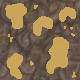
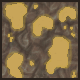
we yeeted the old design and added a new one

diff --git a/Ore.py b/Ore.py
@@ -29,21 +29,21 @@ class Ore():
                 kind = "dirt"
             
         if kind == "coal":
-            self.image = pygame.image.load("images/Ores/coal.png")
+            self.image = pygame.image.load("images/Ores/coalDirt.png")
         elif kind == "iron":
-            self.image = pygame.image.load("images/Ores/IRON.png")
+            self.image = pygame.image.load("images/Ores/IRONDirt.png")
         elif kind == "ruby":
-            self.image = pygame.image.load("images/Ores/Rubie.png")
+            self.image = pygame.image.load("images/Ores/RubieDirt.png")
         elif kind == "diamond":
-            self.image = pygame.image.load("images/Ores/diamond.png")
+            self.image = pygame.image.load("images/Ores/diamondDirt.png")
         elif kind == "amethyst":
-            self.image = pygame.image.load("images/Ores/Amethest.png")
+            self.image = pygame.image.load("images/Ores/AmethestDirt.png")
         elif kind == "Emerald":
-            self.image = pygame.image.load("images/Ores/Emerald.png")
+            self.image = pygame.image.load("images/Ores/EmeraldDirt.png")
         elif kind == "Rainbow":
-            self.image = pygame.image.load("images/Ores/Rainbow.png")
+            self.image = pygame.image.load("images/Ores/RainbowDirt.png")
         elif kind == "dirt":
-            self.image = pygame.image.load("images/Ores/dirt.png")
+            self.image = pygame.image.load("images/Ores/BaseDirt.png")
                        
         self.rect = self.image.get_rect(topleft = pos)
         
